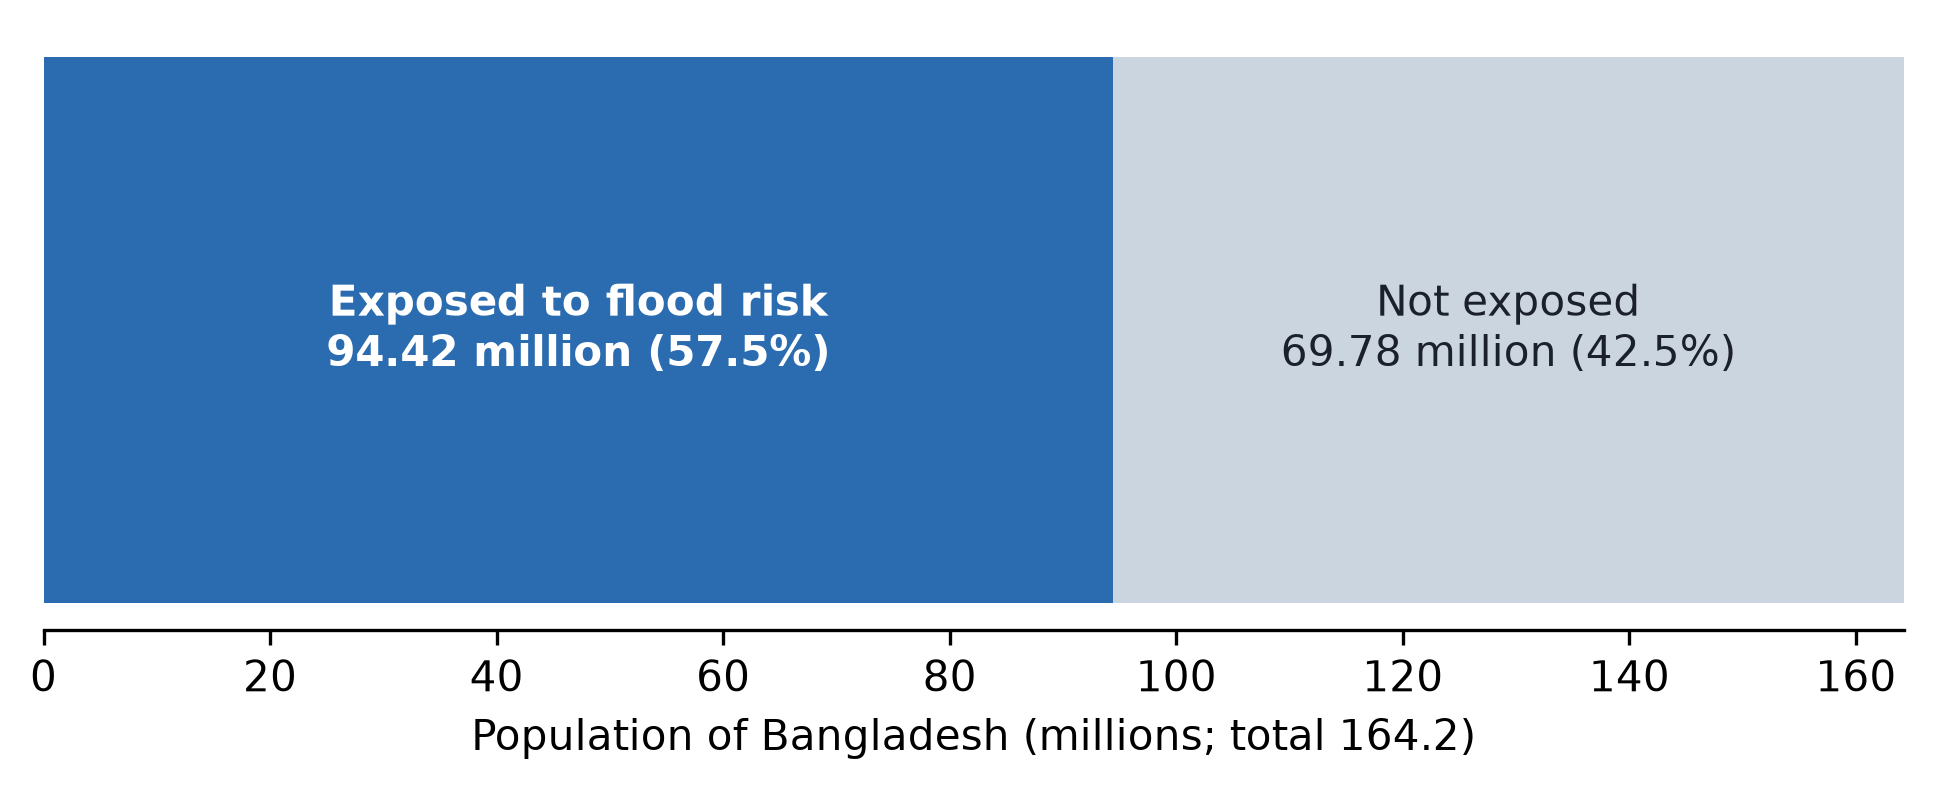
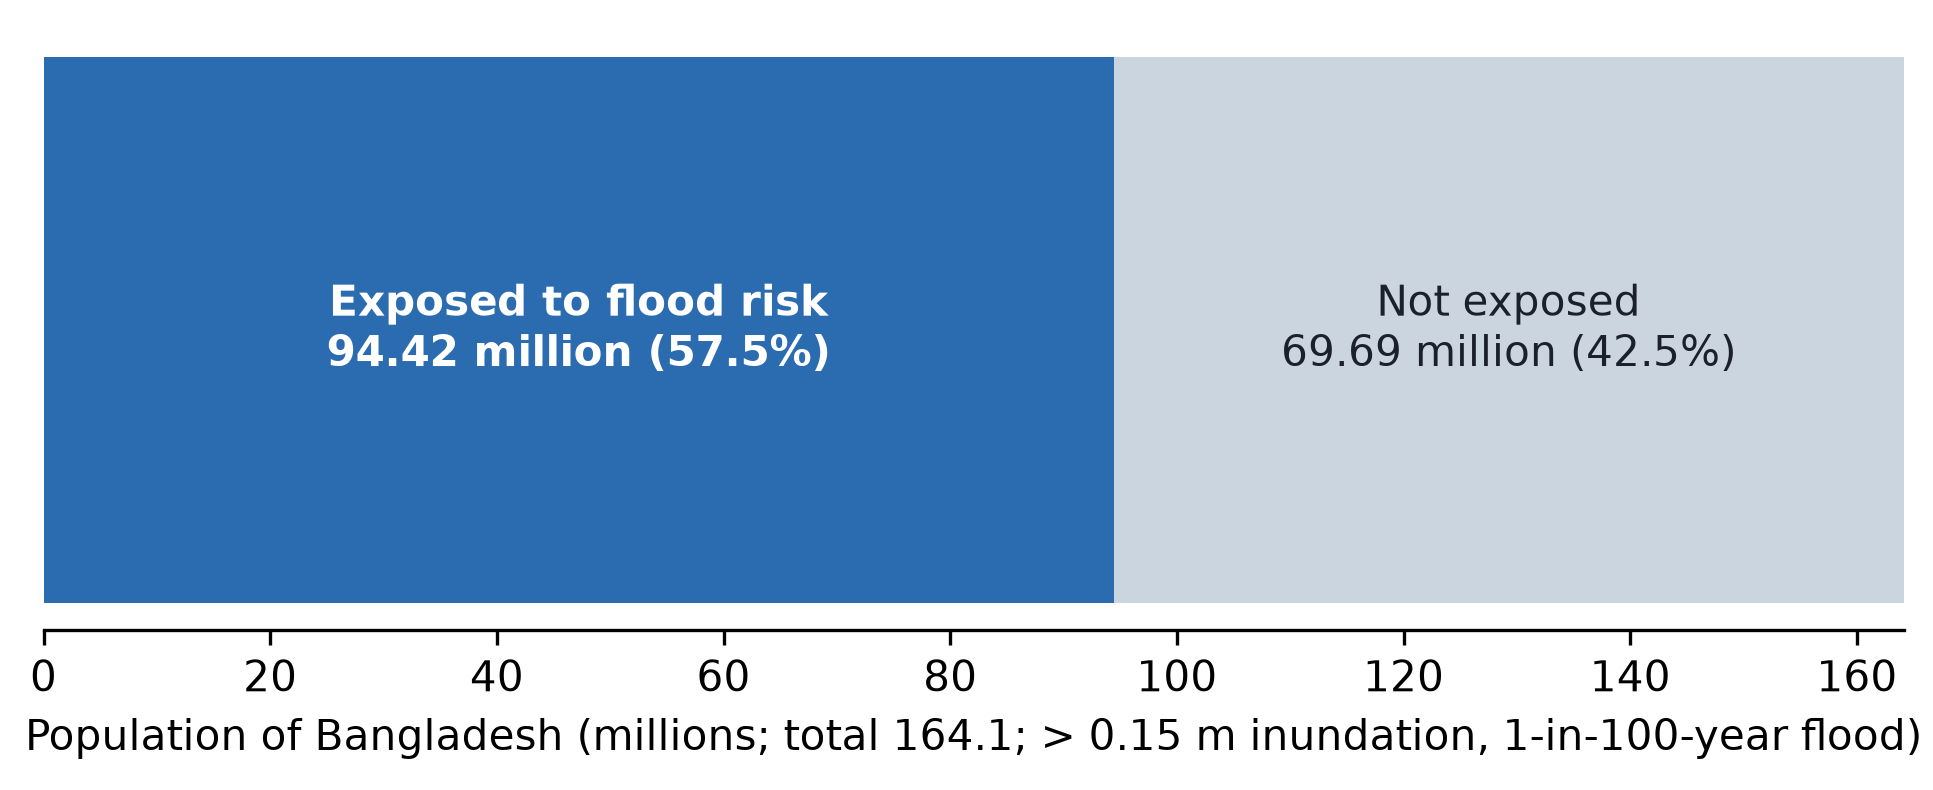
fix(fig1.1): flood-exposure source is Rentschler, Salhab & Jafino 2022 (Suppl. Table 1); plan lists downloaded papers

diff --git a/src/make_diagram_figures.py b/src/make_diagram_figures.py
@@ -1,7 +1,7 @@
 """
 Thesis diagrams (Chapters 1-3), redrawn after the pre-defense corrections
 =========================================================================
-  figures/figure_1_1_flood_stats.png      population exposed to flood risk (Rentschler & Salhab, 2020)
+  figures/figure_1_1_flood_stats.png      population exposed to flood risk (Rentschler, Salhab & Jafino, 2022)
   figures/figure_1_2_system_pipeline.png  where DRISHTI-Bn sits in a disaster-information workflow
   figures/figure_2_1_lora.png             LoRA update on a frozen weight matrix
   figures/figure_3_1_architecture.png     CLS-Only model (solid) + multi-task caption branch (dashed)
@@ -59,14 +59,14 @@ def save(fig, name):
 
 # ---- Figure 1.1: flood exposure ---------------------------------------------------
 fig, ax = plt.subplots(figsize=(8, 2.6))
-exp, rest = 94.42, 164.2 - 94.42
+exp, rest = 94.424, 164.109 - 94.424
 ax.barh([0], [exp], color=C["blue"], height=0.5)
 ax.barh([0], [rest], left=[exp], color="#CBD5E0", height=0.5)
 ax.text(exp / 2, 0, f"Exposed to flood risk\n{exp:.2f} million (57.5%)", ha="center", va="center",
         color="white", fontweight="bold", fontsize=10)
 ax.text(exp + rest / 2, 0, f"Not exposed\n{rest:.2f} million (42.5%)", ha="center", va="center",
         color=C["ink"], fontsize=10)
-ax.set_xlim(0, 164.2); ax.set_yticks([]); ax.set_xlabel("Population of Bangladesh (millions; total 164.2)")
+ax.set_xlim(0, 164.109); ax.set_yticks([]); ax.set_xlabel("Population of Bangladesh (millions; total 164.1; > 0.15 m inundation, 1-in-100-year flood)")
 for s in ("top", "right", "left"): ax.spines[s].set_visible(False)
 save(fig, "figure_1_1_flood_stats.png")
 

diff --git a/02_RESULTS_FACT_SHEET.md b/02_RESULTS_FACT_SHEET.md
@@ -281,7 +281,7 @@ Interpretation: **no performance drop is observed** on this small set, but the e
 ## 13. Figures available (file → number in the thesis)
 | Thesis number | File | Content |
 |---------------|------|---------|
-| Figure 1.1 | figures/figure_1_1_flood_stats.png | Population of Bangladesh exposed to flood risk: 94.42 M of 164.2 M (57.5%) (Rentschler & Salhab, 2020) |
+| Figure 1.1 | figures/figure_1_1_flood_stats.png | Population of Bangladesh exposed to flood risk: 94.42 M of 164.1 M (57.5%), exposed to > 0.15 m inundation in a 1-in-100-year flood (Rentschler, Salhab & Jafino, 2022, Supplementary Table 1) |
 | Figure 1.2 | figures/figure_1_2_system_pipeline.png | Where DRISHTI-Bn sits in a disaster-information workflow; responder use is out of scope |
 | Figure 2.1 | figures/figure_2_1_lora.png | LoRA update h = W₀x + (α/r)·BAx |
 | Figure 3.1 | figures/figure_3_1_architecture.png | CLS-Only architecture (solid) and the multi-task caption branch (dashed) |
